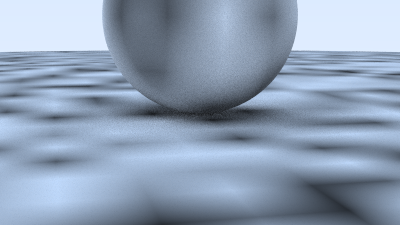
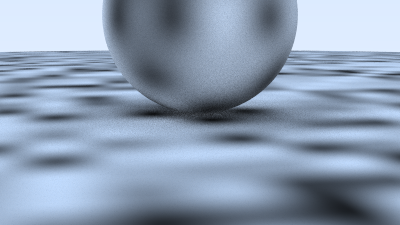
Perlin with Hermitian smoothing

diff --git a/perlin.h b/perlin.h
@@ -19,6 +19,11 @@ public:
         auto v = p.y() - std::floorf(p.y());
         auto w = p.z() - std::floorf(p.z());
 
+        // use a Hermite cubic to round off the interpolation
+        u = u * u * (3 - 2 * u);
+        v = v * v * (3 - 2 * v);
+        w = w * w * (3 - 2 * w);
+
         auto i = int(std::floorf(p.x()));
         auto j = int(std::floorf(p.y()));
         auto k = int(std::floorf(p.z()));
